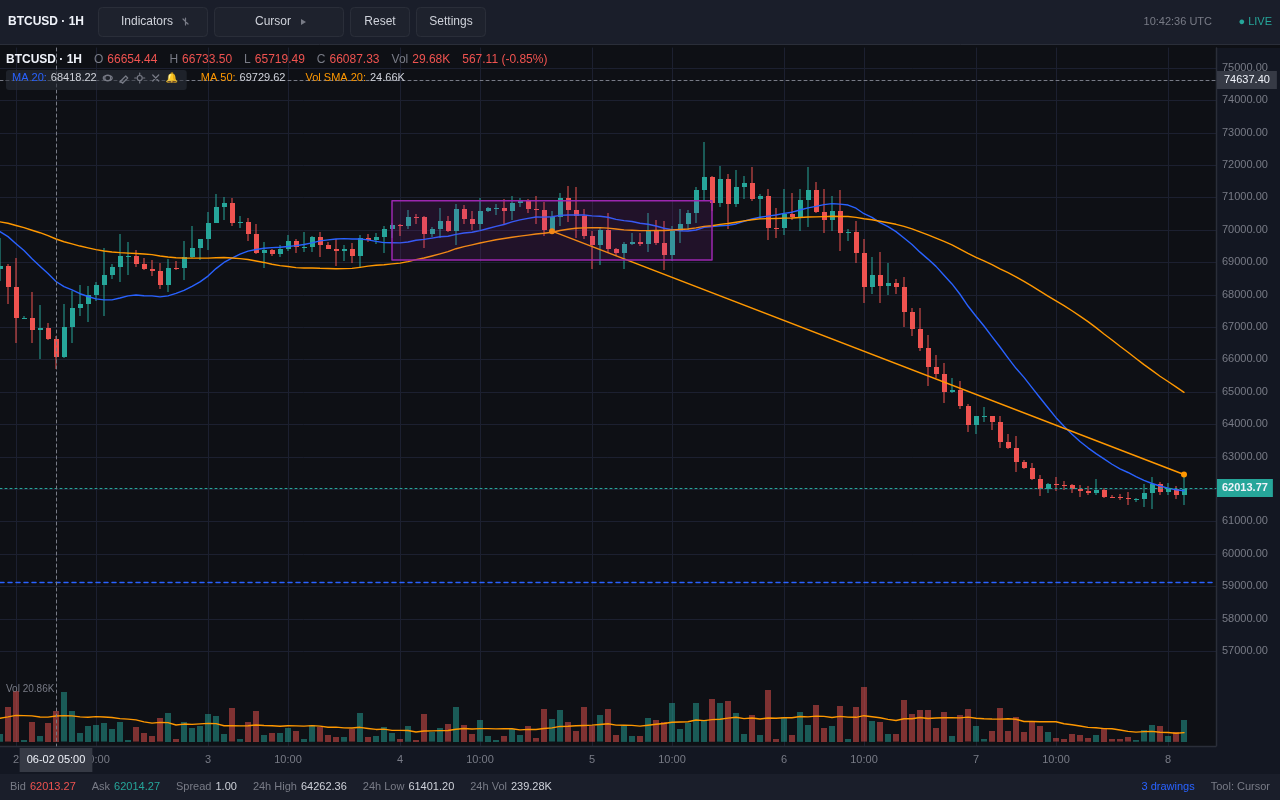
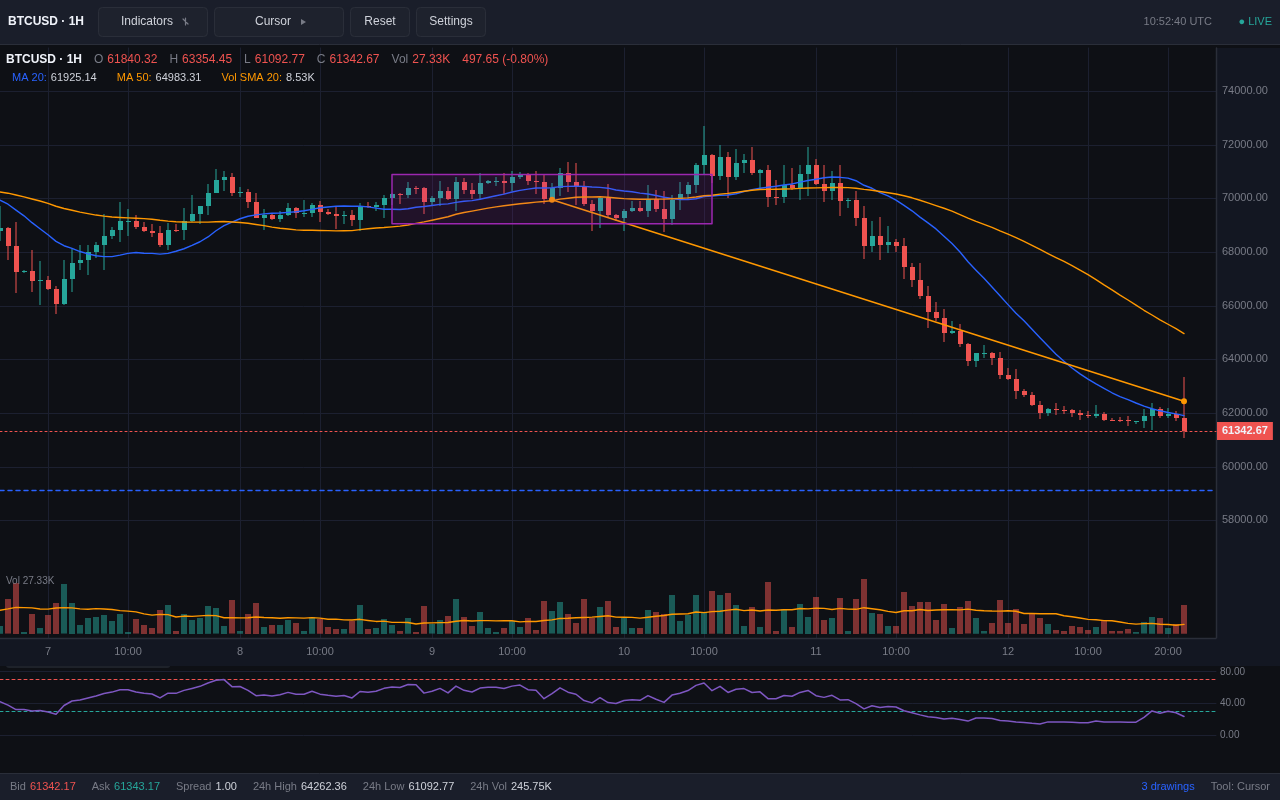
3a86f9dd-45db-46a8-9ae5-e4396f38bcbc

diff --git a/download/chart.js b/download/chart.js
@@ -1778,6 +1778,7 @@ class TradingChart {
     const ctx = this.ctx;
     ctx.clearRect(0, 0, this.W, this.H);
     this.buttons = [];
+    this._iconHits = [];  // Reset icon hit registry once per frame (used by drawPane + drawLegend)
     this.drawBackground();
     this.drawGrid();
     this.drawCandles();
@@ -2203,26 +2204,39 @@ class TradingChart {
     }
     ctx.restore();
 
-    // Labels (drawn after restore so not clipped)
-    ctx.font = '10px -apple-system, Segoe UI, Roboto, sans-serif';
+    // Indicator cards for the pane (TradingView-style, with icons)
+    // Reuse the same _drawIndicatorCard system as the main legend.
+    ctx.font = '11px -apple-system, Segoe UI, Roboto, sans-serif';
     ctx.textBaseline = 'top';
-    if (this.activeIndicators.has('rsi') && this.indCache.rsi) {
-      const rsi = this.indCache.rsi;
-      const last = rsi[rsi.length - 1];
-      ctx.fillStyle = THEME.rsi;
-      ctx.textAlign = 'left';
-      ctx.fillText('RSI 14: ' + (last !== null ? last.toFixed(2) : '—'), left + 6, top + 4);
-      ctx.fillStyle = THEME.textDim; ctx.textAlign = 'left';
-      for (const m of pmarks) ctx.fillText(m.label, right + 4, top + m.coord - 5);
-    } else if (this.activeIndicators.has('macd') && this.indCache.macd) {
-      const macd = this.indCache.macd;
-      const lm = macd.macd[macd.macd.length - 1];
-      ctx.fillStyle = THEME.macd;
-      ctx.textAlign = 'left';
-      ctx.fillText('MACD 12,26,9: ' + (lm !== null ? lm.toFixed(3) : '—'), left + 6, top + 4);
-      ctx.fillStyle = THEME.textDim; ctx.textAlign = 'left';
-      for (const m of pmarks) ctx.fillText(m.label, right + 4, top + m.coord - 5);
+    const paneIdx = this.crosshairIndex !== null ?
+      clamp(Math.round(this.crosshairIndex), 0, this.sim.candles.length - 1) :
+      this.sim.candles.length - 1;
+    let pcx = left + 6;
+    const pcy = top + 4;
+    // RSI card
+    if (this.activeIndicators.has('rsi')) {
+      const state = this.indicatorStates.get('rsi') || {visible: true, settings: {}, icons: ['hide','edit','settings','delete'], customIcons: []};
+      const meta = INDICATOR_LIST.find(i => i.id === 'rsi');
+      if (meta) {
+        const val = this._getIndicatorValueAt('rsi', paneIdx);
+        const cardW = this._drawIndicatorCard(pcx, pcy, 'rsi', meta, state, val);
+        pcx += cardW + 8;
+      }
     }
+    // MACD card
+    if (this.activeIndicators.has('macd')) {
+      const state = this.indicatorStates.get('macd') || {visible: true, settings: {}, icons: ['hide','edit','settings','delete'], customIcons: []};
+      const meta = INDICATOR_LIST.find(i => i.id === 'macd');
+      if (meta) {
+        const val = this._getIndicatorValueAt('macd', paneIdx);
+        const cardW = this._drawIndicatorCard(pcx, pcy, 'macd', meta, state, val);
+        pcx += cardW + 8;
+      }
+    }
+    // Right axis labels (price scale of the pane)
+    ctx.font = '10px -apple-system, Segoe UI, Roboto, sans-serif';
+    ctx.fillStyle = THEME.textDim; ctx.textAlign = 'left';
+    for (const m of pmarks) ctx.fillText(m.label, right + 4, top + m.coord - 5);
   }
 
   /* --------------------------- Drawings ---------------------------------- */
@@ -2784,10 +2798,13 @@ class TradingChart {
 
     // Indicator cards (second line) — TradingView-style with icons
     if (isMobile) return;
-    this._iconHits = []; // reset icon hit registry
+    // NOTE: _iconHits is reset once per frame in render(), not here,
+    // so pane cards (drawn in drawPane) are preserved.
     let cx = this.chartLeft + 6;
     const cy = y + 18;
-    const activeIds = Array.from(this.activeIndicators);
+    // Only show overlay/volume indicators in the main legend.
+    // Pane indicators (rsi, macd) are shown in their own pane via drawPane().
+    const activeIds = Array.from(this.activeIndicators).filter(id => id !== 'rsi' && id !== 'macd');
     for (const id of activeIds) {
       const state = this.indicatorStates.get(id) || {visible: true, settings: {}, icons: ['hide','edit','settings','delete'], customIcons: []};
       const meta = INDICATOR_LIST.find(i => i.id === id);
